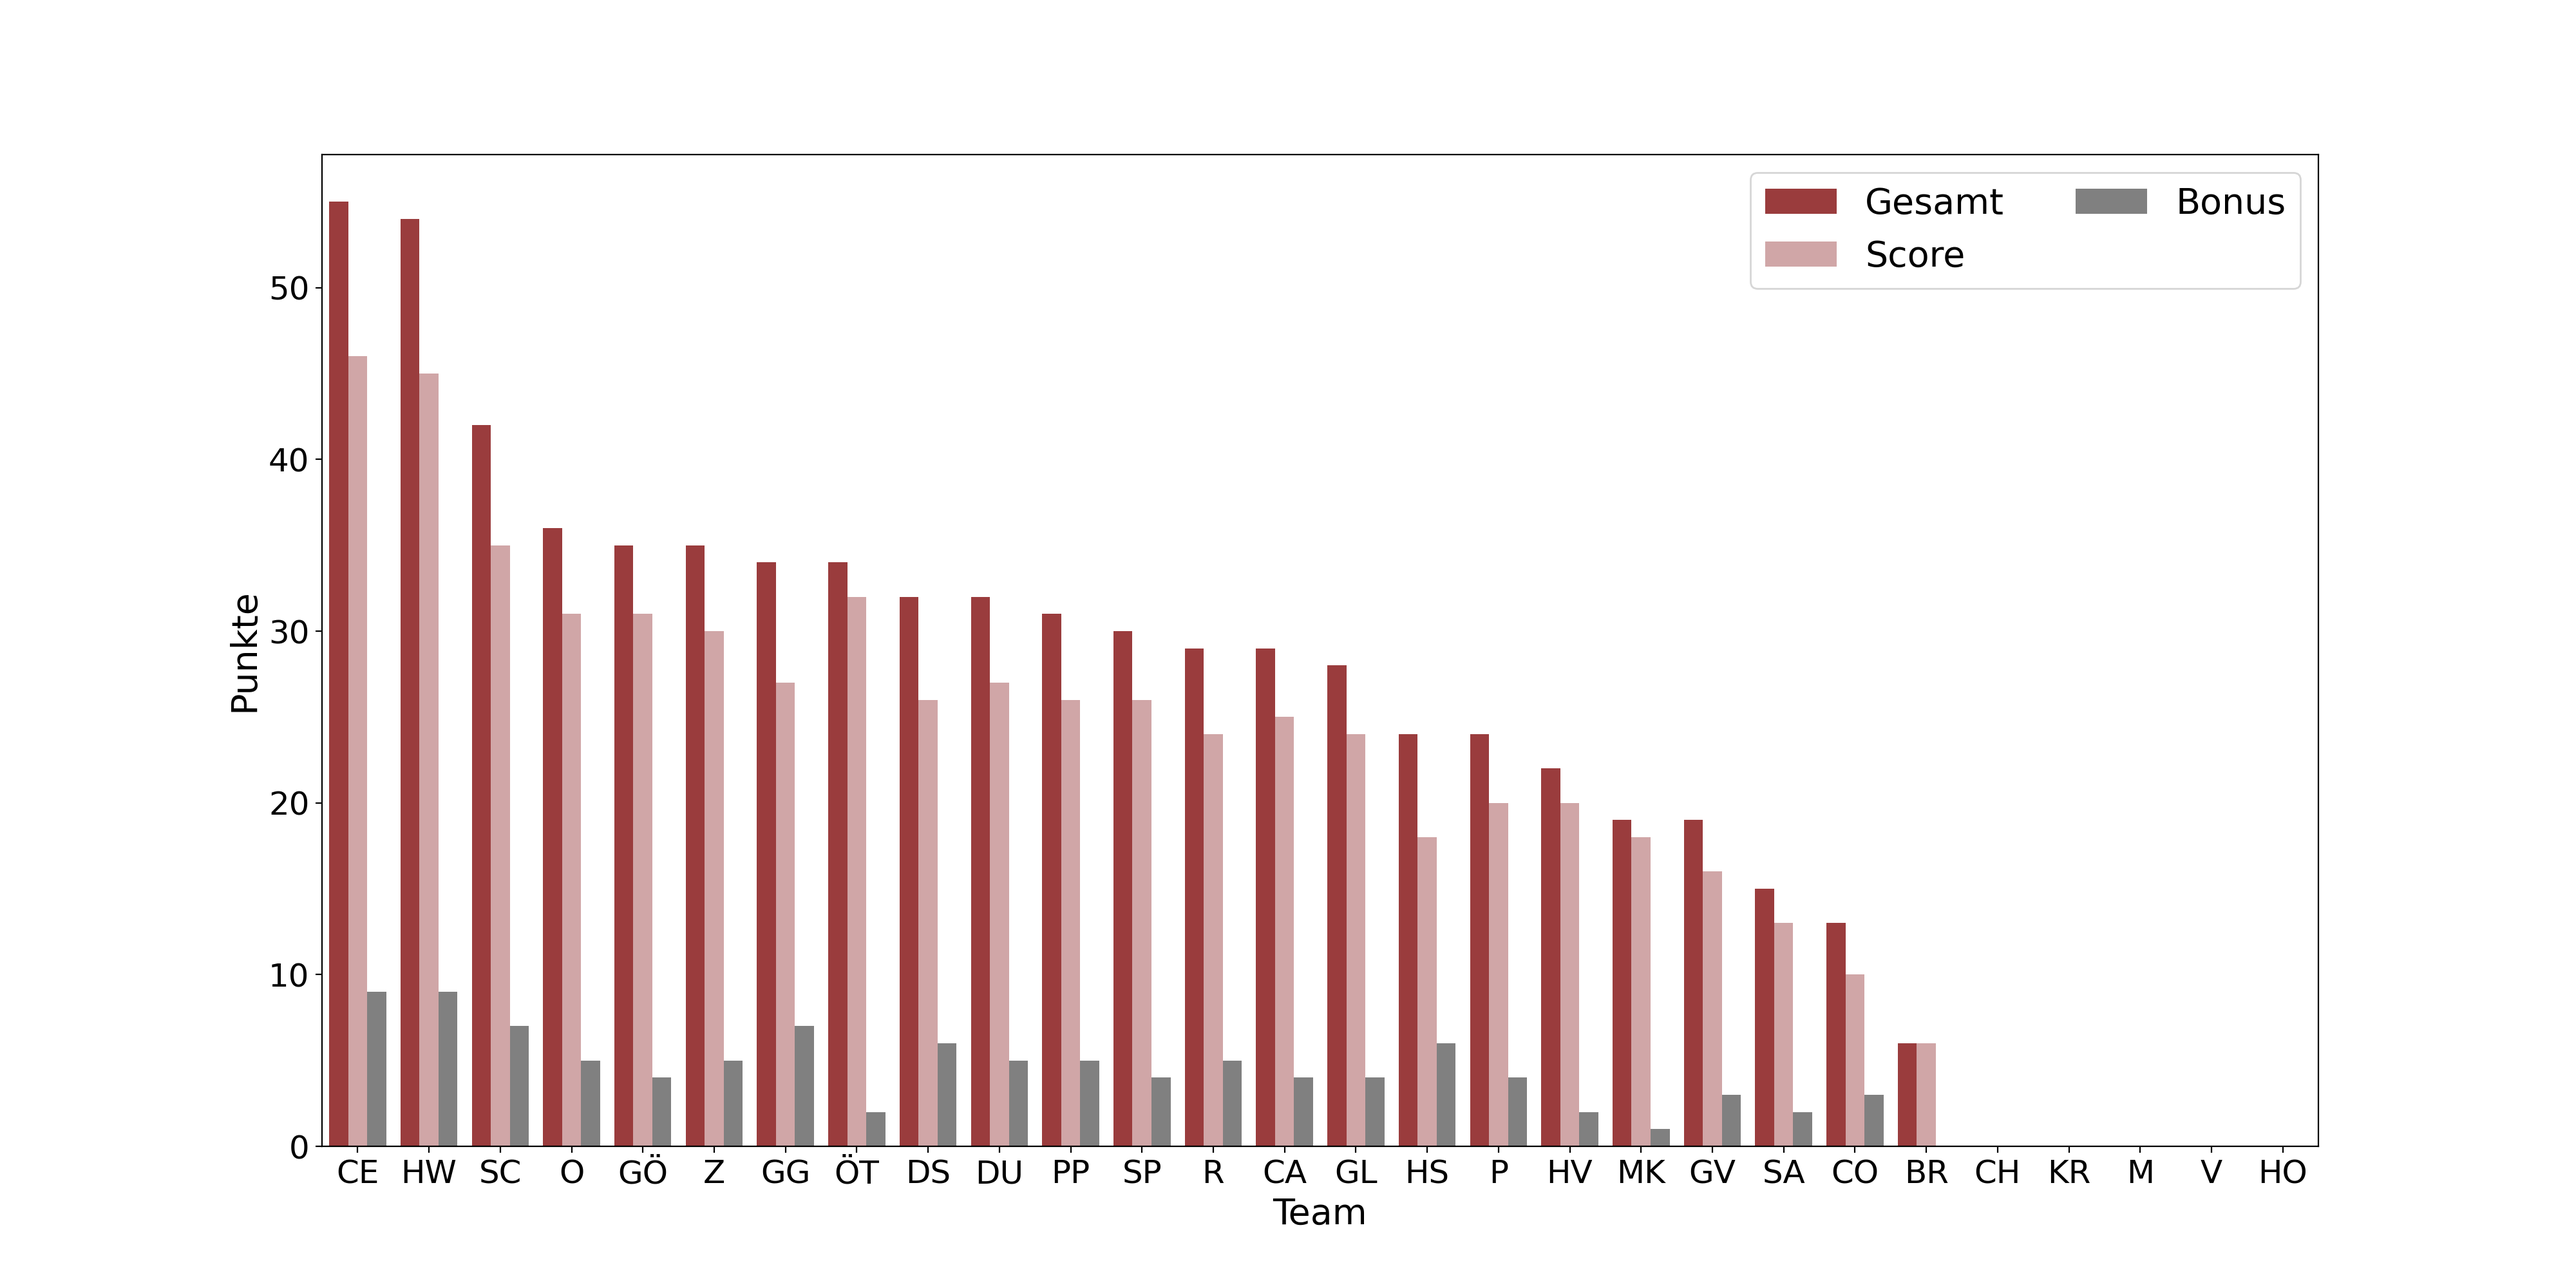
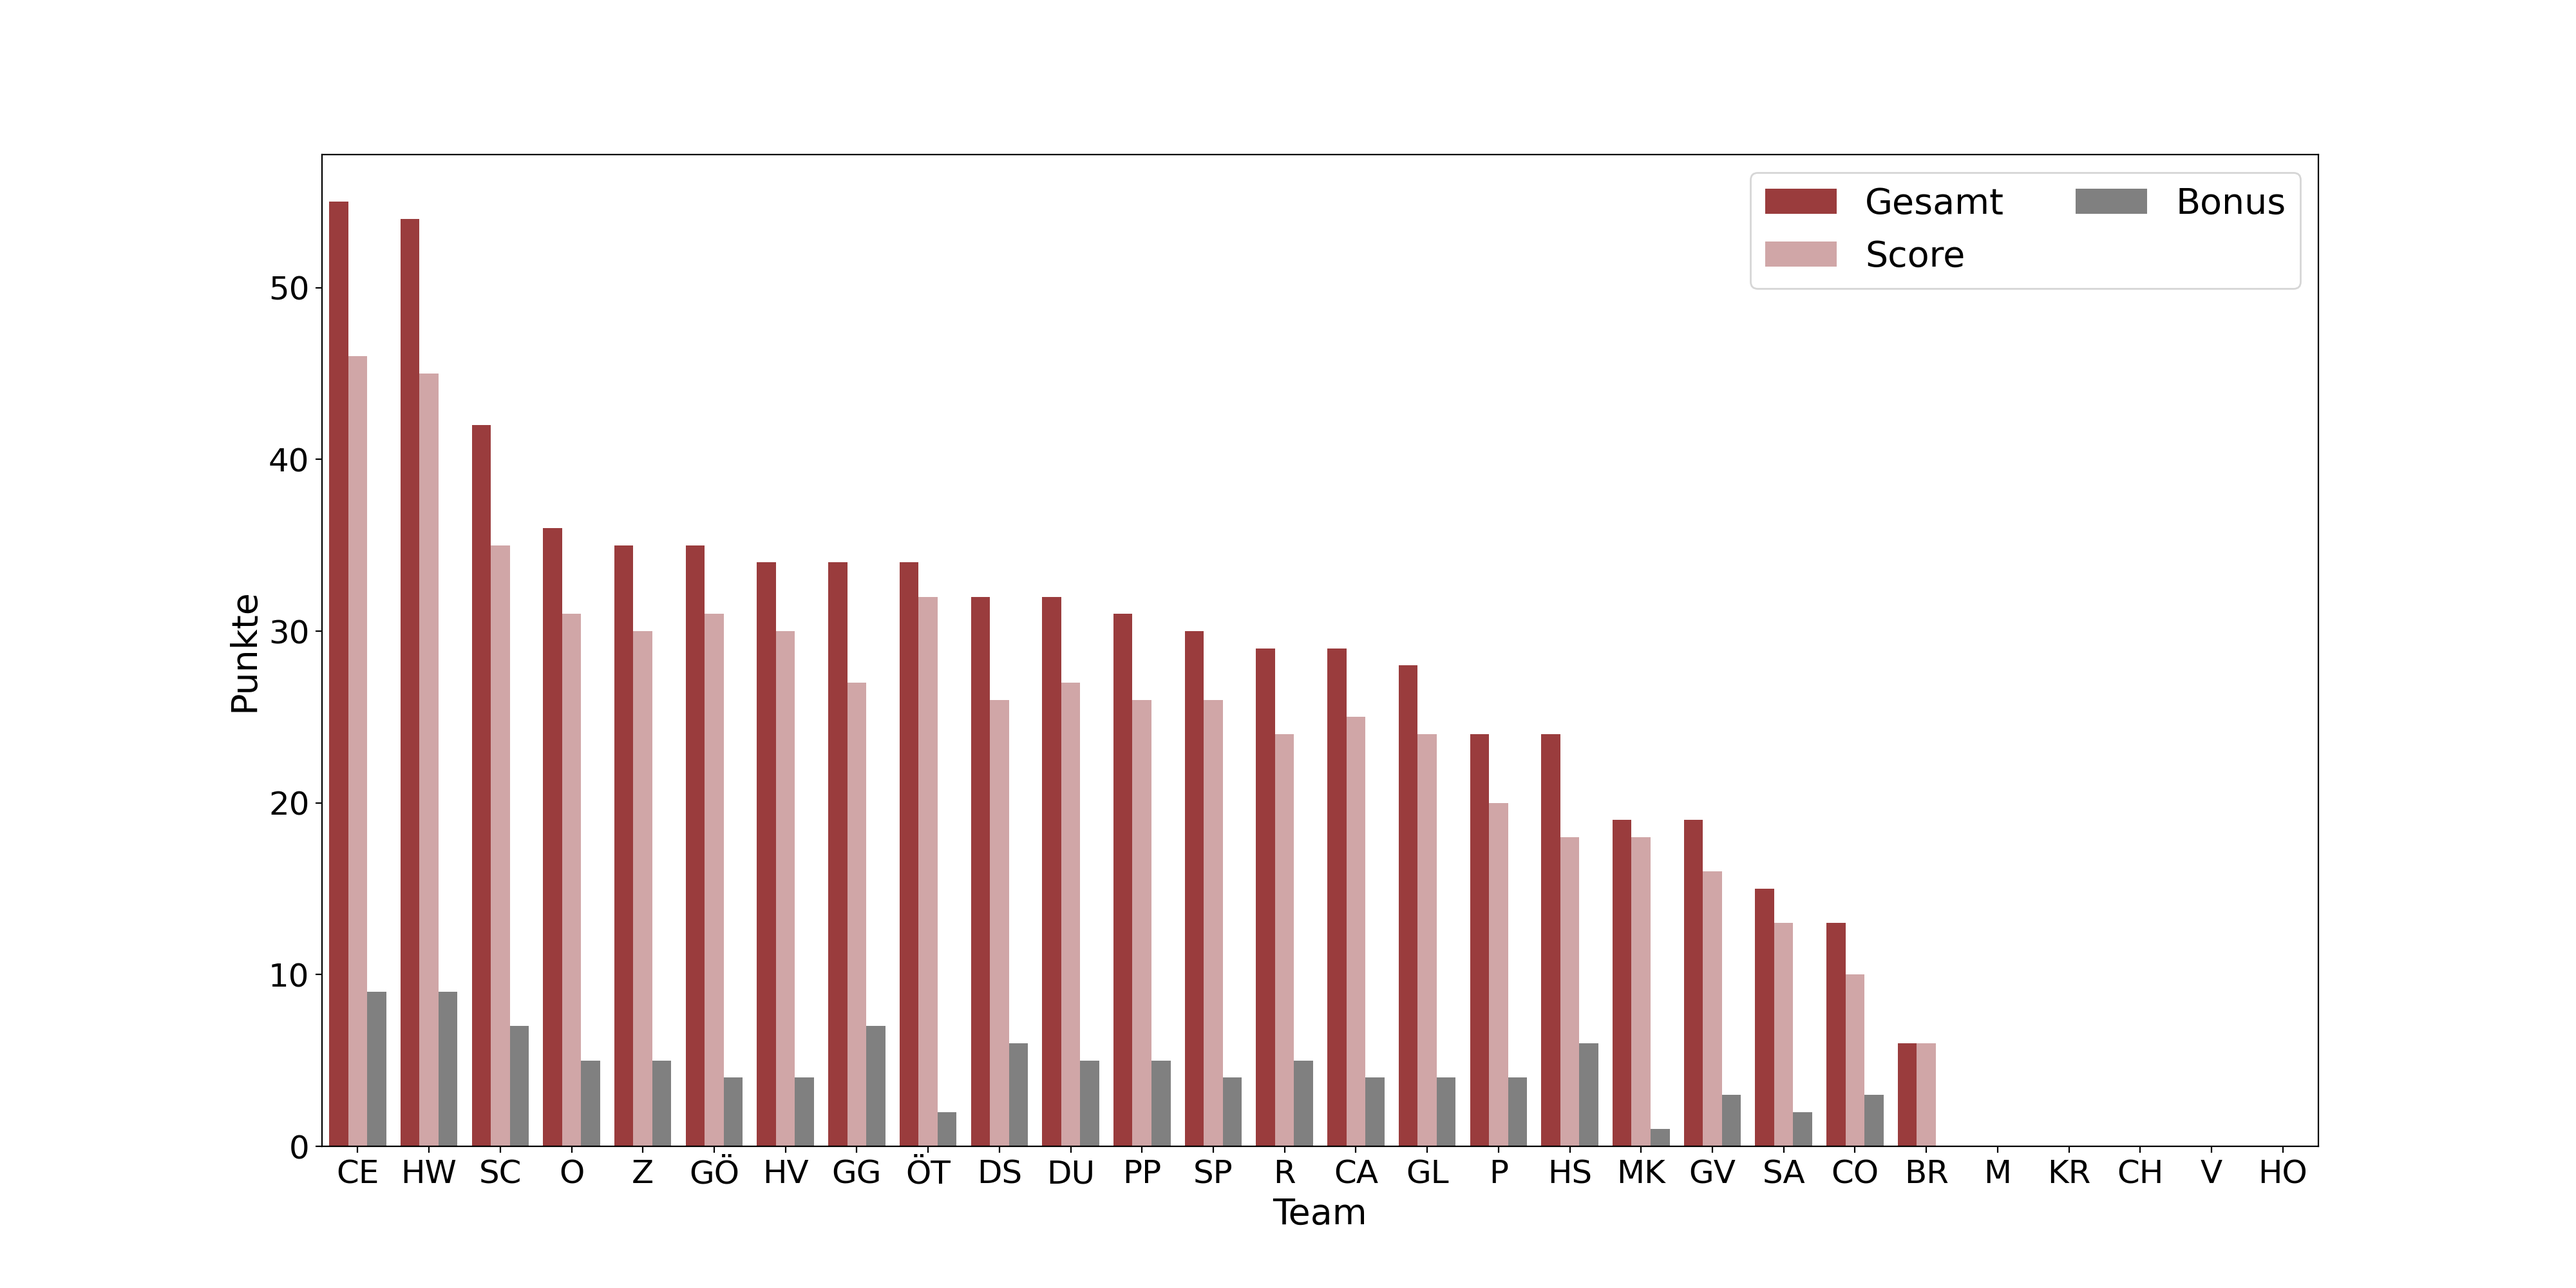
update

diff --git a/css/style_teams.css b/css/style_teams.css
@@ -12,7 +12,7 @@
             background-color: #bde0fe
         }
         .GL {
-            order: 14
+            order: 15
         }
         .GL .team__all-points::after{
             content: "28"
@@ -51,7 +51,7 @@
             background-color: #9bd0b7
         }
         .Z {
-            order: 5
+            order: 4
         }
         .Z .team__all-points::after{
             content: "35"
@@ -72,7 +72,7 @@
             background-color: #c23a22
         }
         .M {
-            order: 25
+            order: 23
         }
         .M .team__all-points::after{
             content: "0 "
@@ -92,7 +92,7 @@
             background-color: #dab894
         }
         .DS {
-            order: 8
+            order: 9
         }
         .DS .team__all-points::after{
             content: "32"
@@ -112,7 +112,7 @@
             background-color: #d6eadf
         }
         .DU {
-            order: 9
+            order: 10
         }
         .DU .team__all-points::after{
             content: "32"
@@ -133,7 +133,7 @@
             background-color: #957DAD
         }
         .OT {
-            order: 7
+            order: 8
         }
         .OT .team__all-points::after{
             content: " 34"
@@ -154,7 +154,7 @@
             background-color: #E0BBE4
         }
         .GG {
-            order: 6
+            order: 7
         }
         .GG .team__all-points::after{
              content: "34"
@@ -174,7 +174,7 @@
             background-color: #d291bc
         }
         .CH {
-            order: 23
+            order: 25
         }
         .CH .team__all-points::after{
             content: "0"
@@ -194,7 +194,7 @@
             background-color: #c2d5a8
         }
         .GO {
-            order: 4
+            order: 5
         }
         .GO .team__all-points::after{
             content: "35"
@@ -334,7 +334,7 @@
             background-color: #ffafcc
         }
         .R {
-            order: 12
+            order: 13
         }
         .R .team__all-points::after{
             content: "29"
@@ -355,7 +355,7 @@
             background-color: #efe9ae
         }
         .HS {
-            order: 15
+            order: 17
         }
         .HS .team__all-points::after{
             content: "24"
@@ -396,7 +396,7 @@
             background-color: #7ec4cf
         }
         .PP {
-            order: 10
+            order: 11
         }
         .PP .team__all-points::after{
             content: "31"
@@ -464,22 +464,22 @@
 
 
         .HV .team__score::after {
-            content: "20/120"
+            content: "30/120"
         }
         .HV .team__stations::after {
-            content: "3/12"
+            content: "4/12"
         }
         .HV .team__bonus::after {
-            content: "2/36"
+            content: "4/36"
         }
         .HV .team__logo {
             background-color: #b8e0d2
         }
         .HV {
-            order: 17
+            order: 6
         }
         .HV .team__all-points::after{
-            content: "22"
+            content: "34"
         }
 
 
@@ -516,7 +516,7 @@
             background-color: #ffc8dd
         }
         .CA {
-            order: 13
+            order: 14
         }
         .CA .team__all-points::after{
             content: "29"
@@ -535,7 +535,7 @@
             background-color: #f6bc66
         }
         .SP {
-            order: 11
+            order: 12
         }
         .SP .team__all-points::after{
             content: "30"

diff --git a/css/style_station.css b/css/style_station.css
@@ -4,7 +4,7 @@
         }
         
         .B .station__teams::after {
-            content: "15/28"
+            content: "16/28"
         }
 
         .C .station__teams::after {
